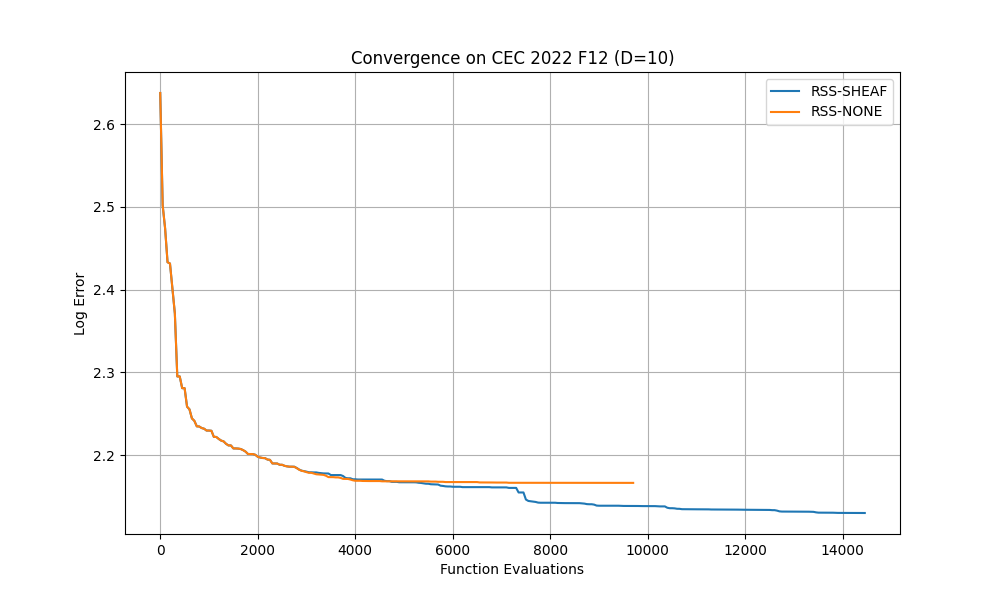
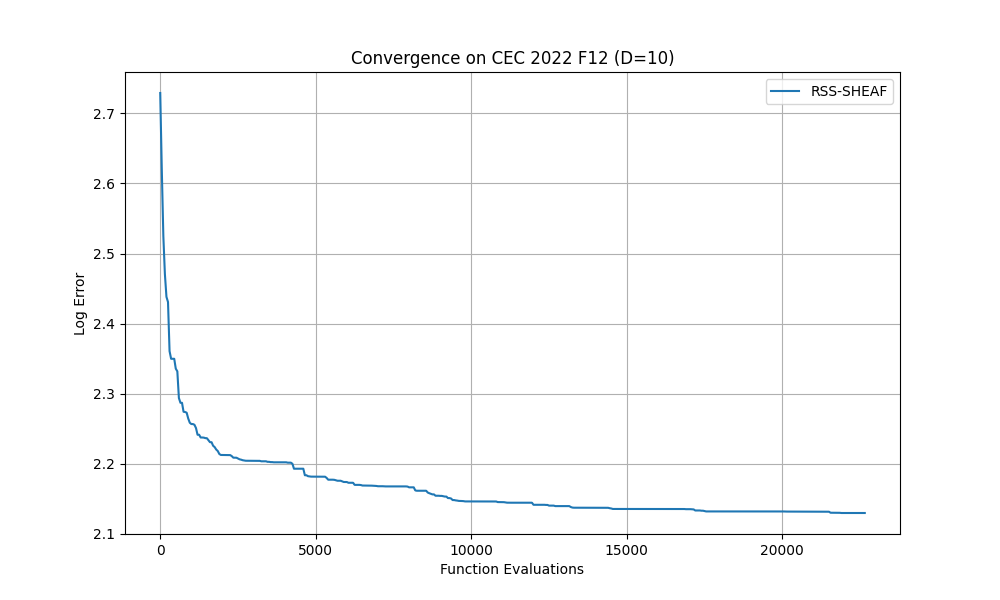
feat: implement elite manifold enhancements (Adaptive k, Surgery Cooldown, Curvature-Aware DE, Topological Selection)

diff --git a/src/riemannian_swarm.py b/src/riemannian_swarm.py
@@ -57,6 +57,15 @@ class RiemannianSwarm:
         self.multiscale_graphs = {}
         self.multiscale_kappas = {}
         
+        # ADAPTIVE THRESHOLD: Generation tracking for dynamic surgery threshold
+        self.generation = 0
+        self.max_generations = 1000  # Default, will be updated by optimizer
+        
+        # SURGERY COOLDOWN: Prevent rapid-fire surgery for consistency
+        self.last_surgery_gen = -100
+        self.surgery_cooldown = 30  # Initial cooldown in generations
+        self.surgery_count = 0      # Used for exponential backoff
+        
     def build_knn_graph(self, points: np.ndarray) -> nx.Graph:
 
         """
@@ -98,6 +107,17 @@ class RiemannianSwarm:
         """
         Main execution step for one generation of RSS.
         """
+        # Increment generation for adaptive threshold
+        self.generation += 1
+        
+        # [ELITE] ADAPTIVE k: Neighborhood size decays over time
+        # Early: High k (global view, stable curvature)
+        # Late: Low k (fine structure, precise surgery)
+        progress = min(self.generation / max(self.max_generations, 1), 1.0)
+        k_max = 12
+        k_min = 3
+        self.k = int(k_max - progress * (k_max - k_min))
+        
         # 1. Build k-NN Graph
         self.graph = self.build_knn_graph(self.swarm)
         
@@ -131,15 +151,19 @@ class RiemannianSwarm:
                 
         # 4. Topological Scouting (Persistent Homology)
         if gudhi is not None:
-            # Detect loops (H1) and necks (H0 merges)
-            rips = gudhi.RipsComplex(points=self.swarm)
-            simplex_tree = rips.create_simplex_tree(max_dimension=2)
-            barcode = simplex_tree.persistence()
-            
             # 5. Surgery Check (The "Cut")
-            if self.detect_singularity(barcode, self.graph):
-                sub_swarms = self.perform_surgery(self.graph)
-                self.manage_sub_swarms(sub_swarms)
+            # Enforce cooldown to let sub-swarms stabilize
+            is_cooled_down = (self.generation - self.last_surgery_gen) >= self.surgery_cooldown
+            
+            if is_cooled_down:
+                # Detect loops (H1) and necks (H0 merges)
+                rips = gudhi.RipsComplex(points=self.swarm)
+                simplex_tree = rips.create_simplex_tree(max_dimension=2)
+                barcode = simplex_tree.persistence()
+                
+                if self.detect_singularity(barcode, self.graph):
+                    sub_swarms = self.perform_surgery(self.graph)
+                    self.manage_sub_swarms(sub_swarms)
 
     def compute_manual_curvature(self):
         """
@@ -177,6 +201,34 @@ class RiemannianSwarm:
 
         nx.set_edge_attributes(G, curvatures, 'ricciCurvature')
     
+    def get_agent_curvature(self, agent_idx: int) -> float:
+        """
+        [ELITE] Returns the mean curvature of edges connected to an agent.
+        
+        Used for curvature-aware DE mutation:
+        - Negative curvature (bridge): Agent is on a bottleneck → boost F to escape
+        - Positive curvature (basin): Agent is in a good region → lower F to refine
+        
+        Args:
+            agent_idx: Index of the agent in the swarm
+            
+        Returns:
+            Mean curvature of incident edges, or 0.0 if no edges
+        """
+        if self.graph is None or agent_idx not in self.graph:
+            return 0.0
+        
+        kappas = []
+        for neighbor in self.graph.neighbors(agent_idx):
+            edge_data = self.graph.get_edge_data(agent_idx, neighbor)
+            if edge_data and 'ricciCurvature' in edge_data:
+                kappas.append(edge_data['ricciCurvature'])
+        
+        if not kappas:
+            return 0.0
+        
+        return np.mean(kappas)
+    
     def build_multiscale_graphs(self, points: np.ndarray, scales: list = None):
         """
         Build k-NN graphs at multiple scales for robust curvature estimation.
@@ -198,7 +250,7 @@ class RiemannianSwarm:
     def compute_multiscale_curvature(self):
         """
         Compute curvature at multiple scales and combine weighted by scale.
-        More robust for high-frequency landscapes.
+        [ELITE] Also stores per-scale curvatures for consensus-based surgery.
         """
         if not self.multiscale or not self.multiscale_graphs:
             self.compute_manual_curvature()
@@ -206,11 +258,13 @@ class RiemannianSwarm:
         
         # Compute curvature for each scale
         all_curvatures = {}
+        self.multiscale_kappas = {}  # Reset per-scale storage
         weights = {3: 0.5, 5: 0.3, 10: 0.2}  # Emphasize local structure
         
         for k, G in self.multiscale_graphs.items():
             edge_weights = nx.get_edge_attributes(G, 'weight')
             curvatures = {}
+            scale_kappas = {}  # Per-scale curvature for this k
             
             for (u, v), w_e in edge_weights.items():
                 sum_u = 0.0
@@ -229,9 +283,13 @@ class RiemannianSwarm:
                 f_e += 3.0 * tris
                 
                 key = (min(u, v), max(u, v))
+                scale_kappas[key] = f_e  # Store for consensus
+                
                 if key not in all_curvatures:
                     all_curvatures[key] = {}
                 all_curvatures[key][k] = f_e
+            
+            self.multiscale_kappas[k] = scale_kappas  # Store per-scale kappas
         
         # Combine curvatures weighted by scale
         final_curvatures = {}
@@ -288,24 +346,78 @@ class RiemannianSwarm:
 
     def perform_surgery(self, graph):
         """
-        Dynamic Surgery: Cuts the 'weakest' 15% of edges if they are negative.
-        [UPDATED] Enforces minimum component size for viable DE.
+        [ELITE] Adaptive Surgery with Multi-Scale Consensus.
+        
+        Two key enhancements:
+        1. ADAPTIVE THRESHOLD: Percentile-based, generation-aware decay
+           - Early (exploration): aggressive cuts (bottom 5%)
+           - Late (exploitation): conservative cuts (bottom 20%)
+        
+        2. MULTI-SCALE CONSENSUS: Cut only if edge is stressed at ALL scales
+           - Requires agreement from k=3, k=5, and k=10 graphs
+           - Eliminates false positives from single-scale noise
+        
         [CRITICAL] Tracks surgically cut edges to prevent graph "healing".
         """
-        # Get all curvatures
+        # Get all curvatures from main graph
         edges = list(graph.edges(data=True))
         kappas = np.array([d.get('ricciCurvature', 0.0) for u, v, d in edges])
         
         if len(kappas) == 0:
             return [graph.subgraph(c).copy() for c in nx.connected_components(graph)]
         
-        # Force it to cut if there is ANY structural stress
-        cut_threshold = -0.001 
+        # === ADAPTIVE THRESHOLD ===
+        # Progress: 0.0 (start) → 1.0 (end)
+        progress = min(self.generation / max(self.max_generations, 1), 1.0)
         
+        # Percentile decays from 5% (aggressive) → 20% (conservative)
+        percentile = 5 + progress * 15
+        
+        # Calculate dynamic threshold from percentile
+        base_threshold = np.percentile(kappas, percentile)
+        
+        # Floor: Never cut positive curvature edges
+        cut_threshold = min(base_threshold, -0.01)
+        
+        # === MULTI-SCALE CONSENSUS ===
+        # Find edges that are stressed at ALL scales (intersection)
+        consensus_edges = None
+        
+        if self.multiscale and self.multiscale_kappas:
+            for k, scale_kappas in self.multiscale_kappas.items():
+                # Get edges stressed at this scale
+                stressed_at_k = set()
+                if scale_kappas:
+                    # Use same percentile-based threshold for each scale
+                    scale_vals = list(scale_kappas.values())
+                    if scale_vals:
+                        scale_threshold = np.percentile(scale_vals, percentile)
+                        scale_threshold = min(scale_threshold, -0.01)
+                        
+                        for edge, kappa in scale_kappas.items():
+                            if kappa < scale_threshold:
+                                stressed_at_k.add(edge)
+                
+                # Intersection: edge must be stressed at ALL scales
+                if consensus_edges is None:
+                    consensus_edges = stressed_at_k
+                else:
+                    consensus_edges = consensus_edges & stressed_at_k
+        
+        # Build edges_to_cut list
         edges_to_cut = []
-        for u, v, data in edges:
-            if data.get('ricciCurvature', 0.0) < cut_threshold:
-                edges_to_cut.append((u, v))
+        
+        if consensus_edges is not None and len(consensus_edges) > 0:
+            # USE CONSENSUS: Only cut edges that ALL scales agree on
+            for u, v, data in edges:
+                edge_key = (min(u, v), max(u, v))
+                if edge_key in consensus_edges:
+                    edges_to_cut.append((u, v))
+        else:
+            # FALLBACK: Use adaptive threshold on combined curvature
+            for u, v, data in edges:
+                if data.get('ricciCurvature', 0.0) < cut_threshold:
+                    edges_to_cut.append((u, v))
                 
         if edges_to_cut:
             # TRIAL CUT: Test if the resulting components are large enough
@@ -314,7 +426,7 @@ class RiemannianSwarm:
             components = list(nx.connected_components(test_graph))
             
             valid_components_nodes = []
-            MIN_AGENTS = 10 # Viability Threshold
+            MIN_AGENTS = 10  # Viability Threshold
             
             for comp in components:
                 if len(comp) >= MIN_AGENTS:
@@ -325,14 +437,22 @@ class RiemannianSwarm:
                 graph.remove_edges_from(edges_to_cut)
                 
                 # CRITICAL: Remember these edges are surgically cut
-                # This prevents the graph from "healing" in future generations
                 for u, v in edges_to_cut:
                     edge_key = (min(u, v), max(u, v))
                     self.surgically_cut_edges.add(edge_key)
                 
-                # Reduced print for performance
-                # print(f"  [SURGERY] Cut {len(edges_to_cut)} edges (Threshold: {cut_threshold:.4f})")
-                # print(f"  [SURGERY] Total banned edges: {len(self.surgically_cut_edges)}")
+                # [ELITE] BACKOFF: Update last surgery gen and backoff cooldown
+                self.last_surgery_gen = self.generation
+                self.surgery_count += 1
+                # Exponential backoff: cooldown grows with each surgery
+                # 30 -> 60 -> 120 -> 240...
+                self.surgery_cooldown = 30 * (2 ** (self.surgery_count - 1))
+                # Cap cooldown at 500 generations
+                self.surgery_cooldown = min(self.surgery_cooldown, 500)
+                
+                # Debug output (enabled for elite mode)
+                print(f"  [ELITE SURGERY] Gen {self.generation}: Cut {len(edges_to_cut)} edges")
+                print(f"    Cooldown now: {self.surgery_cooldown} gens, Consensus: {consensus_edges is not None}")
                 return [graph.subgraph(c).copy() for c in nx.connected_components(graph)]
             else:
                 # Cancel surgery: fragments too small

diff --git a/benchmarks/rss_optimizer.py b/benchmarks/rss_optimizer.py
@@ -31,6 +31,9 @@ class RSSOptimizer:
         self.surgery_interval = 15  # Check surgery every 15 generations (tuned)
         self.generation = 0
         
+        # ELITE: Calculate max generations for adaptive threshold
+        self.max_generations = max_fe // pop_size
+        
         # Initialize Population
         self.pop = np.random.uniform(problem.bounds[0], problem.bounds[1], (pop_size, dim))
         self.fitness = np.array([problem.evaluate(ind) for ind in self.pop])
@@ -41,8 +44,9 @@ class RSSOptimizer:
         self.best_found = self.fitness[best_idx]
         self.best_solution = self.pop[best_idx].copy()  # ELITISM: Store best solution
         
-        # Initialize RSS Engine
+        # Initialize RSS Engine (with max_generations for adaptive threshold)
         self.rss = RiemannianSwarm(self.pop, dim, archive_type=archive_type)
+        self.rss.max_generations = self.max_generations
         
         # List of sub-populations (if split)
         # Initially just one global population
@@ -137,11 +141,28 @@ class RSSOptimizer:
                     except:
                         pass  # Fallback to DE if CMA fails
                 
+        # [ELITE] TOPOLOGICAL SELECTION PROBABILITIES
+        # Agents in positive curvature regions (basins) are preferred as parents
+        kappas = np.array([rss_engine.get_agent_curvature(idx) for idx in range(len(pop))])
+        # Probabilities: higher kappa -> higher weight
+        # Use tanh/exp for stable weighting
+        probs = np.exp(np.clip(kappas, -5.0, 5.0) / 2.0)
+        selection_probs = probs / np.sum(probs)
+
+        # Iterate through population
+        for i in range(len(pop)):
+            idxs = [j for j in range(len(pop)) if j != i]
+            
+            if is_hunter_squad:
                 # STRATEGY: DE/best/1/bin with Low F (Drilling)
                 F_hunt = 0.2  # Fine tuning
-                # Need 2 random agents
+                # Need 2 random agents (weighted selection)
                 if len(idxs) >= 2:
-                    r1, r2 = pop[np.random.choice(idxs, 2, replace=False)]
+                    # Adjust selection_probs for the indices available
+                    sp_idxs = selection_probs[idxs]
+                    sp_idxs = sp_idxs / np.sum(sp_idxs)
+                    r1_idx, r2_idx = np.random.choice(idxs, 2, replace=False, p=sp_idxs)
+                    r1, r2 = pop[r1_idx], pop[r2_idx]
                     mutant = best_agent + F_hunt * (r1 - r2)
                 else:
                     mutant = pop[i] # Fallback
@@ -156,12 +177,23 @@ class RSSOptimizer:
                 else:
                     Fi = current_F[i]
                 
+                # [ELITE] CURVATURE-AWARE F SCALING
+                kappa_i = kappas[i]
+                kappa_normalized = np.clip(kappa_i, -10.0, 10.0)
+                curvature_boost = 1.0 + 0.2 * np.tanh(-kappa_normalized / 5.0)
+                Fi = Fi * curvature_boost
+                Fi = np.clip(Fi, 0.1, 1.2)
+                
                 if np.random.rand() < 0.1:
                     CRi = np.random.rand()
                 else:
                     CRi = current_CR[i]
                     
-                a, b, c = pop[np.random.choice(idxs, 3, replace=False)]
+                # Weighted parent selection
+                sp_idxs = selection_probs[idxs]
+                sp_idxs = sp_idxs / np.sum(sp_idxs)
+                a_idx, b_idx, c_idx = np.random.choice(idxs, 3, replace=False, p=sp_idxs)
+                a, b, c = pop[a_idx], pop[b_idx], pop[c_idx]
                 mutant = a + Fi * (b - c)
 
             # Boundary handling
@@ -219,14 +251,8 @@ class RSSOptimizer:
             self.evolve_sub_pop(sp)
             sp['rss'].step() # Ricci Flow
 
-            # Check Surgery (only every N generations to let curvature accumulate)
-            # AND enforce Refractory Period (Cooldown)
-            surgery_cooldown = 50
-            last_surgery = sp.get('last_surgery_gen', 0)
-            is_cooled_down = (self.generation - last_surgery) > surgery_cooldown
-            
-            check_surgery = (self.generation % self.surgery_interval == 0) and is_cooled_down
-            num_components = nx.number_connected_components(sp['rss'].graph) if (sp['rss'].graph and check_surgery) else 1
+            # Check for splits (handled internally by RSS engine with cooldown/consensus)
+            num_components = nx.number_connected_components(sp['rss'].graph) if sp['rss'].graph else 1
             
             if num_components > 1:
                 # Reduced print for performance

diff --git a/benchmarks/run_cec2022.py b/benchmarks/run_cec2022.py
@@ -26,7 +26,7 @@ def run_cec_experiment(func_num=12, dim=10, trials=3):
     print(f"Starting CEC 2022 F{func_num} Benchmark (Dim={dim}, Trials={trials})")
     
     max_fe = 30000
-    modes = ['sheaf', 'none']
+    modes = ['sheaf']
     results = {m: [] for m in modes}
     
     for mode in modes:
